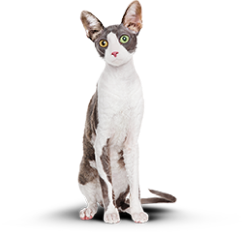
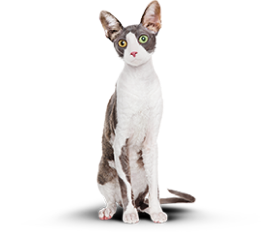
Добавляет логику слайдера, исправляет мелкие недочеты

diff --git a/source/index.html b/source/index.html
@@ -126,24 +126,24 @@
           </tbody>
         </table>
         <strong class="example__price">
-          Затраты на питание: 15 000 РУБ.
+          Затраты на питание: <span>15 000 РУБ.</span>
         </strong>
-        <div class="example__comparison slider">
+        <div class="example__slider slider">
           <div class="slider__wrapper">
-            <div class="slider__slide">
-              <img class="slider__content" src="img/cat-before.png" alt="Полная кошка">
+            <div class="slider__slide slider__slide-left" style="width: 60%;">
+              <img class="slider__content" src="img/cat-before.png" width="280" height="232" alt="Полная кошка">
             </div>
-            <div class="slider__slide" hidden>
-              <img class="slider__content" src="img/cat-after.png" alt="Худая кошка">
+            <div class="slider__slide slider__slide-right" style="width: 40%;">
+              <img class="slider__content" src="img/cat-after.png" width="280" height="232" alt="Худая кошка">
             </div>
             <div class="slider__rangebar rangebar">
-              <span class="rangebar__description">
+              <button class="rangebar__button rangebar__button-before" type="button">
                 Было
-              </span>
-              <div class="slider__controls"></div>
-              <span class="rangebar__description">
+              </button>
+              <input class="rangebar__controls" type="range" min="0" max="100%" value="50%"></input>
+              <button class="rangebar__button rangebar__button-after" type="button">
                 Стало
-              </span>
+              </button>
             </div>
           </div>
         </div>
@@ -156,7 +156,7 @@
           Приглашаем к сотрудничеству дилеров!
         </p>
         <address class="cooperation__address">
-          ул. Большая Конюшенная, д. 19/8 Санкт-Петербург
+          ул. Большая Конюшенная, д. 19/8 <span>Санкт-Петербург</span>
         </address>
       </aside>
       <section class="map"> <!--Пока не знаю как это правильно делается, на этом этапе пока сделал так-->
@@ -220,6 +220,7 @@
       </div>
     </footer>
     <script src="js/script.js"></script>
+    <script src="js/slider.js"></script>
   </body>
 
 </html>

diff --git a/source/sass/blocks/rangebar.scss b/source/sass/blocks/rangebar.scss
@@ -2,15 +2,105 @@
 
 .rangebar {
   display: flex;
+  justify-content: center;
+  align-items: center;
+  min-width: 210px;
+  padding-top: 15px;
+  padding-bottom: 40px;
 }
 
-.rangebar__description {
+.rangebar__controls {
+  width: 86px;
+  height: 14px;
+  margin: 0 13px;
+  padding: 4px 6px;
+
+  appearance: none;
+  cursor: pointer;
+  border: 1px solid #cdcdcd;
+  border-radius: 6px;
+  overflow: hidden;
+
+  //По каким то причинам не работает группирование селекторов для этих псевдоэлементов,
+  //поэтому создал миксины чтобы не повторять один и тот же код дважды
+  //могу показать на демонстрации, если нужно, или проверь самостоятельно
+
+  @mixin track() {
+    appearance: none;
+    height: 6px;
+
+    border-radius: 6px;
+    background-color: v.$basic-color;
+
+    @media (min-width: v.$tablet-width) {
+      height: 6px;
+      background-color: #dcdcdc;
+    }
+  }
+
+  @mixin thumb() {
+    appearance: none;
+    width: 6px;
+    height: 6px;
+    border-radius: 6px;
+    border: none;
+
+    background-color: transparent;
+    box-shadow: 46px 0 0 43px v.$white;
+
+    @media (min-width: v.$tablet-width) {
+      width: 34px;
+      height: 34px;
+      position: relative;
+      top: -15px;
+
+      background-color: v.$basic-color;
+      border-radius: 50%;
+      border: 1px solid #cdcdcd;
+      box-shadow: inset 0 0 0 12.5px v.$white;
+      filter: drop-shadow(0 1px 3px rgba(0, 0, 0, 0.16));
+    }
+  }
+
+  &::-moz-range-track {
+    @include track();
+  }
+
+  &::-webkit-slider-runnable-track {
+    @include track();
+  }
+
+  &::-moz-range-thumb {
+    @include thumb();
+  }
+
+  &::-webkit-slider-thumb {
+    @include thumb();
+  }
+
+  @media (min-width: v.$tablet-width) {
+    width: 426px;
+    padding: 0;
+    margin: 0 17px;
+
+    border: none;
+    background-color: transparent;
+    overflow: visible;
+  }
+}
+
+.rangebar__button {
   display: block;
+  min-width: 49px;
+  border: none;
+  background-color: transparent;
+  cursor: pointer;
 
   font-family: "Oswald", system-ui;
   font-size: 16px;
   line-height: 20px;
   text-transform: uppercase;
+  text-align: center;
 
   @media (min-width: v.$tablet-width) {
     font-size: 20px;

diff --git a/source/js/slider.js b/source/js/slider.js
@@ -1,0 +1,32 @@
+const min = "0";
+const max = "100";
+
+const range = document.querySelector('.rangebar__controls');
+const rangeButtonBefore = document.querySelector('.rangebar__button-before');
+const rangeButtonAfter = document.querySelector('.rangebar__button-after');
+const targetSlideLeft = document.querySelector('.slider__slide-left');
+const targetSlideRight = document.querySelector('.slider__slide-right');
+
+targetSlideLeft.style.width = "50%";
+targetSlideRight.style.width = "50%";
+
+rangeButtonBefore.addEventListener('click', (event) => {
+  range.value = min;
+  targetSlideLeft.style.width = max + "%";
+  targetSlideRight.style.width = min + "%";
+});
+
+rangeButtonAfter.addEventListener('click', (event) => {
+  range.value = max;
+  targetSlideLeft.style.width = min + "%";
+  targetSlideRight.style.width = max + "%";
+});
+
+range.addEventListener('input', (event) => {
+  targetSlideLeft.style.width = String(max - range.value) + "%";
+  targetSlideRight.style.width = String(range.value) + "%";
+
+  //Закомментировать две строки выше, раскомментировать две строки ниже, для изменения работы слайдера
+  // targetSlideLeft.style.width = String(range.value) + "%";
+  // targetSlideRight.style.width = String(max - range.value) + "%";
+});

diff --git a/source/sass/blocks/main-nav.scss b/source/sass/blocks/main-nav.scss
@@ -12,6 +12,15 @@
   &--closed .main-nav__list {
     display: none;
   }
+
+  &--closed .main-nav__toggle::before {
+    transform: none;
+    box-shadow: 0 7.5px v.$black, 0 -7.5px v.$black;
+  }
+
+  &--closed .main-nav__toggle::after {
+    content: none;
+  }
 }
 
 .main-nav__list {
@@ -30,7 +39,7 @@
   @media (min-width: v.$tablet-width) {
     display: flex;
     flex-wrap: wrap;
-    gap: 35px;
+    column-gap: 35px;
   }
 }
 
@@ -86,21 +95,30 @@
   right: 0;
   top: 24px;
   width: 24px;
-  height: 16px;
+  height: 18px;
   padding: 0;
 
   border: none;
   background-color: transparent;
 
-  &::before {
+  &::before,
+  &::after {
     content: "";
-    position: relative;
+    position: absolute;
     display: block;
     width: 24px;
     height: 1.5px;
+    top: 50%;
 
     background-color: v.$black;
-    box-shadow: 0 7.5px v.$black, 0 -7.5px v.$black;
+  }
+
+  &::before {
+    transform: rotate(45deg);
+  }
+
+  &::after {
+    transform: rotate(-45deg);
   }
 
   @media (min-width: v.$tablet-width) {

diff --git a/source/sass/blocks/slider.scss b/source/sass/blocks/slider.scss
@@ -1,4 +1,46 @@
-.slider__rangebar {
-  padding-top: 15px;
-  padding-bottom: 40px;
+@use "../variables.scss" as v;
+
+.slider__wrapper {
+  position: relative;
+  margin: 0 auto;
+  width: 280px;
+
+  @media (min-width: v.$tablet-width) {
+    width: 592px;
+  }
+}
+
+.slider__slide {
+  overflow: hidden;
+
+  &-left {
+    .slider__content {
+      position: relative;
+      left: 10px;
+    }
+  }
+
+  &-right {
+    position: absolute;
+    top: 0;
+    right: 0;
+
+    direction: rtl;
+
+    .slider__content {
+      position: relative;
+      left: 10px;
+    }
+  }
+}
+
+.slider__content {
+  display: block;
+  width: min-content;
+
+  @media (min-width: v.$tablet-width) {
+    //Временное решение, пока не будет адаптивных картинок
+    width: 592px;
+    height: 511px;
+  }
 }

diff --git a/source/sass/blocks/example.scss b/source/sass/blocks/example.scss
@@ -92,17 +92,27 @@
 
     font-size: 20px;
     text-align: right;
+
+    span {
+      display: block;
+      margin-top: 9px;
+    }
   }
 
   @media (min-width: v.$desktop-width) {
     margin-bottom: 75px;
     text-align: start;
+
+    span {
+      display: inline-block;
+      margin-left: 63px;
+    }
   }
 }
 
-.example__comparison {
+.example__slider {
   display: block;
-  width: max-content;
+  width: 100%;
   margin: 0 auto;
 
   @media (min-width: v.$tablet-width) {

diff --git a/source/sass/blocks/main-header.scss b/source/sass/blocks/main-header.scss
@@ -32,8 +32,8 @@
   margin-top: 23px;
 
   @media (min-width: v.$tablet-width) {
-    display: flex;
-    align-items: center;
+    padding-top: 20px;
+    padding-right: 20px;
     margin: 0;
     margin-right: auto;
     margin-left: 12px;

diff --git a/source/sass/blocks/results.scss b/source/sass/blocks/results.scss
@@ -25,7 +25,7 @@ $column-gap-tablet: 14px;
   }
 
   @media (min-width: v.$tablet-width) {
-    width: 70%;
+    width: 366px;
     border-spacing: $column-gap-tablet 0;
   }
 }

diff --git a/source/sass/blocks/social.scss b/source/sass/blocks/social.scss
@@ -3,6 +3,7 @@
 .social__list {
   @include v.list-reset;
   display: flex;
+  flex-wrap: wrap;
   justify-content: center;
 
   @media (max-width: v.$mobile-only-width) {

diff --git a/source/sass/blocks/cooperation.scss b/source/sass/blocks/cooperation.scss
@@ -49,5 +49,10 @@
     width: 160px;
 
     font-size: 16px;
+
+    span {
+      display: block;
+      margin-top: 1em;
+    }
   }
 }
